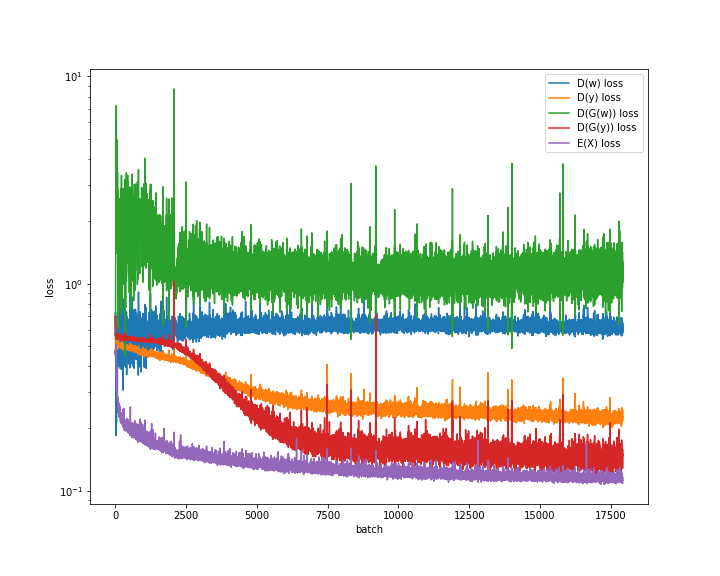
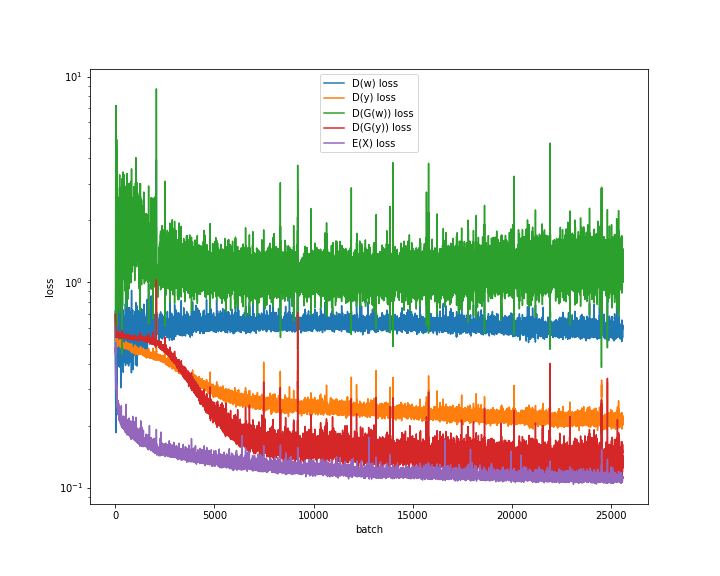
Updated final results

diff --git a/README.md b/README.md
@@ -221,11 +221,11 @@ Below are the current model configurations:
 
 # Results
 
-Shown here are the results from a training run over 70 epochs. The model "convergence" shows an expected and adequate behavior. The GAN parts (discriminator and generator) are able to learn from each other, continuously improving. Some classes are accurately predicted and generated (e.g. gender), while others are harder (e.g. eye-glasses, 5 o'clock shadow). Initial epochs seem to focus on eyes and face-shape, while no sharp contours are visible yet. Further training initially improves face outline and facial features, followed by face shading and finally backgrounds. Notably the later epochs produce very colorful images. Further training is expected to show some more improvements and robustness, but other adjustments to the model architecture may prove more efficient.
+Shown here are the results from a training run over 100 epochs. The model "convergence" shows an expected and adequate behavior. The GAN parts (discriminator and generator) are able to learn from each other, continuously improving. Some classes are accurately predicted and generated (e.g. gender), while others are harder (e.g. eye-glasses, 5 o'clock shadow). Initial epochs seem to focus on eyes and face-shape, while no sharp contours are visible yet. Further training initially improves face outline and facial features, followed by face shading and finally backgrounds. Notably the later epochs produce very colorful images. Further training is expected to show some more improvements and robustness, but other adjustments to the model architecture may prove more efficient.
 
 ### Loss Curve
 
-The loss curve shows little to no actual improvement after very early epochs. Loss peaks can be observed that occur spontaneously, likely attributed to LeakyReLU activations. The model recovers quickly from these conditions.
+The loss curve shows only little improvement after very early epochs. Loss peaks can be observed that occur spontaneously, likely attributed to LeakyReLU activations. The model recovers quickly from these conditions.
 
 ![loss curve](img/loss.png)
 
@@ -237,21 +237,23 @@ Combined with the loss curves, the accuracy/F1 score are a good indicator of mod
 
 ### Auto-Encoder Performance
 
-Epoch 1/5/10/50:
+Epoch 1/5/10/50/100:
 
-![ae performance epoch 1](img/ae_001.png)\
-![ae performance epoch 5](img/ae_005.png)\
-![ae performance epoch 10](img/ae_010.png)\
-![ae performance epoch 50](img/ae_050.png)
+![ae performance epoch 1](img/ae_000.png)\
+![ae performance epoch 5](img/ae_004.png)\
+![ae performance epoch 10](img/ae_009.png)\
+![ae performance epoch 50](img/ae_049.png)\
+![ae performance epoch 100](img/ae_099.png)
 
 ### Generator Performance
 
-Epoch 1/5/10/50:
+Epoch 1/5/10/50/100:
 
-![gen performance epoch 1](img/gen_001.png)\
-![gen performance epoch 5](img/gen_005.png)\
-![gen performance epoch 10](img/gen_010.png)\
-![gen performance epoch 50](img/gen_050.png)
+![gen performance epoch 1](img/gen_000.png)\
+![gen performance epoch 5](img/gen_004.png)\
+![gen performance epoch 10](img/gen_009.png)\
+![gen performance epoch 50](img/gen_049.png)\
+![gen performance epoch 100](img/gen_099.png)
 
 # References
 
